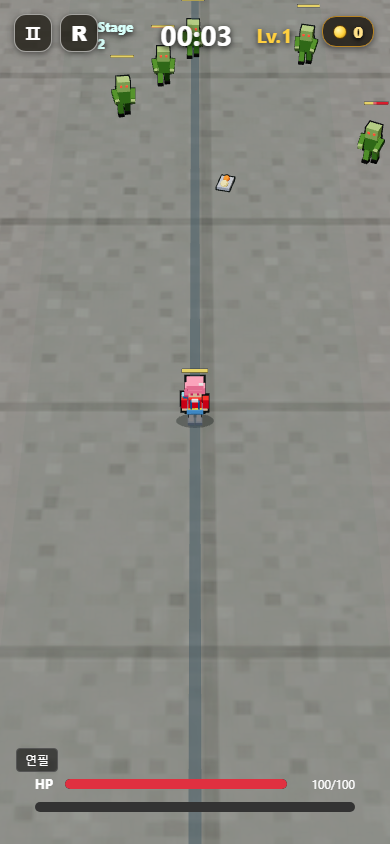
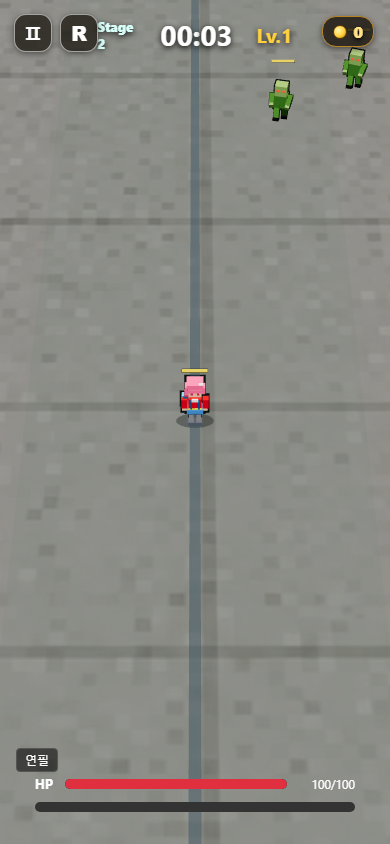
feat(stage2): refine corridor floor graphics
Apply the Stage 2 corridor floor tile at higher density, shrink and repeat the end-wall classroom strip, and add graphics/code review validation records.

diff --git a/Developer/r3f_prototype/src/components/ClassroomFloor.jsx b/Developer/r3f_prototype/src/components/ClassroomFloor.jsx
@@ -7,6 +7,8 @@ import stage2EndWallUrl from '../assets/background_floor/stage02_corridor_end_wa
 const FLOOR_SIZE = 200
 const STAGE1_TILE_WORLD_SIZE = 6.9
 const STAGE2_TILE_WORLD_SIZE = 30
+const STAGE2_TILE_DENSITY_MULTIPLIER = 10
+const STAGE2_END_WALL_SCALE = 1 / 5
 
 export const FLOOR_TILE = {
   src: stage1TileUrl,
@@ -18,16 +20,19 @@ export const STAGE_FLOOR_TILES = {
   stage1: FLOOR_TILE,
   stage2: {
     src: stage2TileUrl,
-    repeat: Math.round(FLOOR_SIZE / STAGE2_TILE_WORLD_SIZE),
+    repeat: Math.round(FLOOR_SIZE / STAGE2_TILE_WORLD_SIZE) * STAGE2_TILE_DENSITY_MULTIPLIER,
     floorSize: FLOOR_SIZE,
   },
 }
 
 export const STAGE2_CORRIDOR_END = {
   src: stage2EndWallUrl,
-  width: 34,
-  height: 5.15,
-  positionZ: 48.4,
+  width: 36,
+  height: 5.5,
+  displayWidth: 36 * STAGE2_END_WALL_SCALE,
+  displayHeight: 5.5 * STAGE2_END_WALL_SCALE,
+  repeatX: 5,
+  positionZ: -43.5,
 }
 
 export const STAGE2_CORRIDOR_LANES = {
@@ -47,9 +52,9 @@ function buildRepeatingTexture(tile) {
   return tex
 }
 
-function buildSingleTexture(src) {
+function buildEndWallTexture(config) {
   if (typeof document === 'undefined') return null
-  const tex = new THREE.TextureLoader().load(src)
+  const tex = new THREE.TextureLoader().load(config.src)
   tex.anisotropy = 8
   tex.colorSpace = THREE.SRGBColorSpace
   return tex
@@ -58,7 +63,7 @@ function buildSingleTexture(src) {
 export default function ClassroomFloor({ stageId = 'stage1' }) {
   const floorTile = STAGE_FLOOR_TILES[stageId] ?? STAGE_FLOOR_TILES.stage1
   const floorTex = useMemo(() => buildRepeatingTexture(floorTile), [floorTile])
-  const endWallTex = useMemo(() => buildSingleTexture(STAGE2_CORRIDOR_END.src), [])
+  const endWallTex = useMemo(() => buildEndWallTexture(STAGE2_CORRIDOR_END), [])
   const floorMat = useMemo(
     () => new THREE.MeshLambertMaterial({ map: floorTex }),
     [floorTex],
@@ -91,13 +96,24 @@ export default function ClassroomFloor({ stageId = 'stage1' }) {
             <planeGeometry args={[5.2, FLOOR_SIZE]} />
             <meshBasicMaterial color={0x4e725f} transparent opacity={0.07} depthWrite={false} />
           </mesh>
-          <mesh
-            position={[0, STAGE2_CORRIDOR_END.height / 2, STAGE2_CORRIDOR_END.positionZ]}
-            renderOrder={3}
-            material={endWallMat}
-          >
-            <planeGeometry args={[STAGE2_CORRIDOR_END.width, STAGE2_CORRIDOR_END.height]} />
-          </mesh>
+          {Array.from({ length: STAGE2_CORRIDOR_END.repeatX }, (_, i) => {
+            const centerOffset = i - (STAGE2_CORRIDOR_END.repeatX - 1) / 2
+            return (
+              <mesh
+                key={i}
+                position={[
+                  centerOffset * STAGE2_CORRIDOR_END.displayWidth,
+                  0.018,
+                  STAGE2_CORRIDOR_END.positionZ,
+                ]}
+                rotation={[-Math.PI / 2, 0, 0]}
+                renderOrder={3}
+                material={endWallMat}
+              >
+                <planeGeometry args={[STAGE2_CORRIDOR_END.displayWidth, STAGE2_CORRIDOR_END.displayHeight]} />
+              </mesh>
+            )
+          })}
         </group>
       )}
     </group>

diff --git a/Developer/r3f_prototype/src/components/ClassroomFloor.test.jsx b/Developer/r3f_prototype/src/components/ClassroomFloor.test.jsx
@@ -11,8 +11,12 @@ describe('ClassroomFloor tiling', () => {
   it('uses a dedicated corridor tile and end-wall asset for Stage 2', () => {
     expect(STAGE_FLOOR_TILES.stage1.src).toMatch(/tile_stage01/)
     expect(STAGE_FLOOR_TILES.stage2.src).toMatch(/tile_stage02_corridor/)
+    expect(STAGE_FLOOR_TILES.stage2.repeat).toBe(70)
     expect(STAGE2_CORRIDOR_END.src).toMatch(/stage02_corridor_end_wall/)
-    expect(STAGE2_CORRIDOR_END.positionZ).toBeGreaterThan(45)
+    expect(STAGE2_CORRIDOR_END.displayWidth).toBeCloseTo(STAGE2_CORRIDOR_END.width / 5)
+    expect(STAGE2_CORRIDOR_END.displayHeight).toBeCloseTo(STAGE2_CORRIDOR_END.height / 5)
+    expect(STAGE2_CORRIDOR_END.repeatX).toBe(5)
+    expect(STAGE2_CORRIDOR_END.positionZ).toBeLessThan(-40)
   })
 
   it('keeps a consistent plank size regardless of floor size (tile world size ~4-10)', () => {

diff --git a/Graphic_designer/stage2_corridor_reference_tile_request_2026-06-20.md b/Graphic_designer/stage2_corridor_reference_tile_request_2026-06-20.md
@@ -1,76 +1,41 @@
-# Stage 2 Corridor Reference Tile Request - 2026-06-20
+# Stage 2 Corridor Floor Asset - 2026-06-20
 
-## 요청자 의도
+## 작업 목적
 
-첨부된 학교 복도 이미지를 기준으로 Stage 2 그래픽을 만든다.
+첨부된 학교 복도 이미지를 기준으로 Stage 2 전용 바닥 그래픽을 만들고 게임에 적용한다.
 
-핵심 목표:
-
-- 바닥 영역은 연속 반복 가능한 타일 리소스로 가공한다.
-- Stage 2 바닥에 해당 타일을 깐다.
-- 플레이어가 상단 방향으로 계속 이동하는 복도 느낌을 준다.
-- 스테이지 끝에 다다르면 첨부 이미지 상단의 교실 창문과 문이 보이게 한다.
-
-## 그래픽 처리 방향
-
-### 바닥 타일
-
-- 첨부 이미지의 하단/중앙 회색 타일 바닥을 기준으로 한다.
-- 반복 시 이음새가 티 나지 않도록 좌우/상하 그리드 간격이 맞는 구간을 잘라낸다.
-- 타일에는 다음 요소를 유지한다.
-  - 회색 사각 바닥 타일
-  - 은은한 픽셀 노이즈
-  - 형광등 반사 하이라이트
-  - 어두운 줄눈
-- 벽, 문, 창문, 게시판은 반복 바닥 타일에는 포함하지 않는다.
-
-### 복도 끝 장식
-
-- 첨부 이미지 상단의 벽, 창문, 교실 문, 게시판을 Stage 2 끝 지점에 배치한다.
-- 배치는 바닥과 분리된 별도 끝단 장식으로 처리한다.
-- 플레이어가 위쪽으로 진행하다가 `mapHalfZ` 근처에 도달했을 때 보이도록 한다.
-
-## 구현 참고
-
-현재 Stage 2 시각 처리는 다음 파일에 있다.
+사용 원본:
 
 ```text
-Developer/r3f_prototype/src/components/ClassroomFloor.jsx
+Graphic_designer/graphic_asset/background_floor/stage02_resource.png.png
 ```
 
-현재는 Stage 1 바닥 타일을 공용으로 쓰고, Stage 2일 때 복도 레인 오버레이를 얹는다.
+## 생성한 그래픽 리소스
 
-새 방향:
+```text
+Graphic_designer/graphic_asset/background_floor/tile_stage02_corridor.png
+Graphic_designer/graphic_asset/background_floor/stage02_corridor_end_wall.png
+```
 
-- Stage 1은 기존 `tile_stage01` 유지
-- Stage 2는 별도 복도 바닥 타일 사용
-- Stage 2 끝단 장식은 `stageId === 'stage2'`일 때만 렌더링
-
-권장 에셋 경로:
+게임 적용용 복사본:
 
 ```text
 Developer/r3f_prototype/src/assets/background_floor/tile_stage02_corridor.png
 Developer/r3f_prototype/src/assets/background_floor/stage02_corridor_end_wall.png
 ```
 
-## 현재 블로커
+## 처리 방향
 
-채팅에 첨부된 이미지는 참고로 보이지만, 현재 코드 도구가 파일 시스템에서 직접 읽을 수 있는 원본 PNG 경로가 없다.
+- 바닥 타일은 원본 이미지의 회색 복도 바닥 구간을 잘라 반복 가능한 텍스처로 가공했다.
+- 상단 교실 문, 창문, 게시판 구간은 별도 end wall 리소스로 분리했다.
+- Stage 1의 기존 바닥 텍스처는 유지했다.
+- Stage 2에서만 새 복도 바닥 타일과 상단 끝 배경이 보이도록 했다.
+- Stage 2 바닥 타일은 10배 밀도 요청에 맞춰 더 촘촘하게 반복되도록 적용했다.
+- 상단 교실 문/창문 이미지는 1/5 크기로 줄어든 것처럼 보이도록 높이를 낮추고 좌우 5회 반복했다.
+- 캐릭터와 몬스터는 기존 three.js 3D 카툰 렌더링 방식을 유지하고, 배경만 2D 텍스처로 처리했다.
 
-정확한 이미지 가공을 위해서는 사용자가 원본 이미지를 저장소 안에 파일로 넣거나, 경로를 알려줘야 한다.
+## 적용 확인
 
-권장 임시 저장 위치:
-
-```text
-Graphic_designer/reference/stage2_corridor_reference.png
-```
-
-## 그래픽 디자이너 체크리스트
-
-- [ ] 원본 이미지 파일을 확보한다.
-- [ ] 바닥 반복 타일로 쓸 영역을 분리한다.
-- [ ] 끝단 벽/문/창문 영역을 별도 리소스로 분리한다.
-- [ ] 390x844 모바일 화면에서 바닥 반복 이음새가 거슬리지 않는지 확인한다.
-- [ ] Stage 2 끝단에서 문/창문이 플레이어 진행 방향의 목적지처럼 보이는지 확인한다.
-- [ ] 캐릭터/몬스터 3D 카툰 렌더링 정책과 충돌하지 않게 배경만 2D 텍스처로 처리한다.
-
+- 390x844 화면에서 Stage 2 시작 지점의 바닥 반복을 확인했다.
+- Stage 2 상단 진행 지점에서 교실 창문과 벽이 보이는 것을 확인했다.
+- 검증 스크린샷은 `Quaility_Assurance/` 폴더에 저장했다.

diff --git a/Quaility_Assurance/stage2_corridor_code_review_2026-06-20.md b/Quaility_Assurance/stage2_corridor_code_review_2026-06-20.md
@@ -1,0 +1,40 @@
+# Stage 2 Corridor Code Review - 2026-06-20
+
+## 검수 범위
+
+Stage 2 복도 바닥 그래픽, 상단 교실 문/창문 반복 배치, 관련 테스트와 역할별 기록을 검수했다.
+
+검수 파일:
+
+```text
+Developer/r3f_prototype/src/components/ClassroomFloor.jsx
+Developer/r3f_prototype/src/components/ClassroomFloor.test.jsx
+Graphic_designer/stage2_corridor_reference_tile_request_2026-06-20.md
+Developer/stage2_corridor_floor_implementation_2026-06-20.md
+Quaility_Assurance/stage2_corridor_floor_graphics_validation_2026-06-20.md
+```
+
+## 검수 결과
+
+- Stage 2 전용 바닥 타일 반복 횟수는 70회로 설정되어 10배 밀도 요청과 일치한다.
+- Stage 2 상단 교실 문/창문 이미지는 원본 표시 크기의 1/5 크기 판으로 줄어들고, 좌우로 5개 반복 배치된다.
+- Stage 1 바닥 텍스처와 기본 렌더링 경로는 변경하지 않았다.
+- 코드상 `stageId === 'stage2'`일 때만 Stage 2 전용 오버레이와 상단 배경이 렌더링된다.
+- `.env` 또는 Firebase 설정값 같은 민감한 로컬 설정 파일은 커밋 대상에 포함되지 않았다.
+
+## 발견 사항
+
+차단 이슈 없음.
+
+## 검증 명령
+
+```text
+npm test
+npm run build
+```
+
+검증 결과:
+
+- 전체 테스트 45개 파일, 257개 테스트 통과.
+- 빌드 통과.
+- 빌드 중 Vite chunk size 경고가 출력되지만 이번 변경으로 새로 발생한 실패는 아니다.

diff --git a/Developer/stage2_corridor_floor_implementation_2026-06-20.md b/Developer/stage2_corridor_floor_implementation_2026-06-20.md
@@ -1,0 +1,32 @@
+# Stage 2 Corridor Floor Implementation - 2026-06-20
+
+## 구현 범위
+
+Stage 2 전용 복도 바닥 텍스처와 상단 끝 배경을 `ClassroomFloor`에 적용했다.
+
+변경 파일:
+
+```text
+Developer/r3f_prototype/src/components/ClassroomFloor.jsx
+Developer/r3f_prototype/src/components/ClassroomFloor.test.jsx
+Developer/r3f_prototype/src/assets/background_floor/tile_stage02_corridor.png
+Developer/r3f_prototype/src/assets/background_floor/stage02_corridor_end_wall.png
+```
+
+## 구현 내용
+
+- Stage 1은 기존 `tile_stage01` 텍스처를 그대로 사용한다.
+- Stage 2는 `tile_stage02_corridor.png`를 반복 텍스처로 사용한다.
+- Stage 2 바닥 타일은 요청에 따라 기존 Stage 2 반복 기준보다 10배 촘촘하게 배치한다.
+- Stage 2 맵 상단에는 `stage02_corridor_end_wall.png`를 배치해 문과 창문이 목적지처럼 보이게 했다.
+- Stage 2 상단 교실 문/창문 이미지는 표시 높이를 1/5로 줄이고, 가로 방향으로 5회 반복되게 했다.
+- 기존 Stage 2 복도 라인 오버레이는 유지하되, 새 바닥 텍스처를 가리지 않도록 투명도를 낮췄다.
+
+## 검증
+
+```text
+npm test -- src/components/ClassroomFloor.test.jsx
+npm run build
+```
+
+두 명령 모두 통과했다. `npm run build`는 Vite의 chunk size 경고만 출력했다.

diff --git a/Quaility_Assurance/stage2_corridor_floor_graphics_validation_2026-06-20.md b/Quaility_Assurance/stage2_corridor_floor_graphics_validation_2026-06-20.md
@@ -1,0 +1,28 @@
+# Stage 2 Corridor Floor Graphics Validation - 2026-06-20
+
+## 검증 대상
+
+Stage 2 복도 바닥 텍스처 반복, 10배 밀도 적용, 상단 교실 문/창문 배경의 1/5 크기 축소와 좌우 반복 표시를 확인했다.
+
+## 검증 방법
+
+- 로컬 개발 서버 `http://localhost:5173`에서 게임을 실행했다.
+- 브라우저 자동화로 Stage 2를 선택하고 게임을 시작했다.
+- 시작 지점, 상단 진행 지점, 10배 밀도 적용 지점, 상단 축소 반복 적용 지점에서 스크린샷을 저장했다.
+
+## 검증 결과
+
+- Stage 2 시작 지점에서 회색 복도 바닥 타일이 반복되어 보인다.
+- Stage 2 바닥 타일 반복 횟수를 기존 Stage 2 기준보다 10배 늘려 더 촘촘하게 보이도록 했다.
+- Stage 2 상단 교실 문/창문 이미지는 원래 표시 크기의 1/5 크기 판으로 줄이고, 좌우로 5개 반복 배치했다.
+- 기존 중앙 이동 라인은 남아 있지만 바닥 그래픽을 과하게 가리지 않는다.
+- Stage 1 바닥 텍스처는 변경하지 않았다.
+
+## 증거 파일
+
+```text
+Quaility_Assurance/stage2_corridor_floor_start_2026-06-20.png
+Quaility_Assurance/stage2_corridor_floor_top_2026-06-20.png
+Quaility_Assurance/stage2_corridor_floor_density10_2026-06-20.png
+Quaility_Assurance/stage2_corridor_endwall_small_repeated_meshes_2026-06-20.png
+```